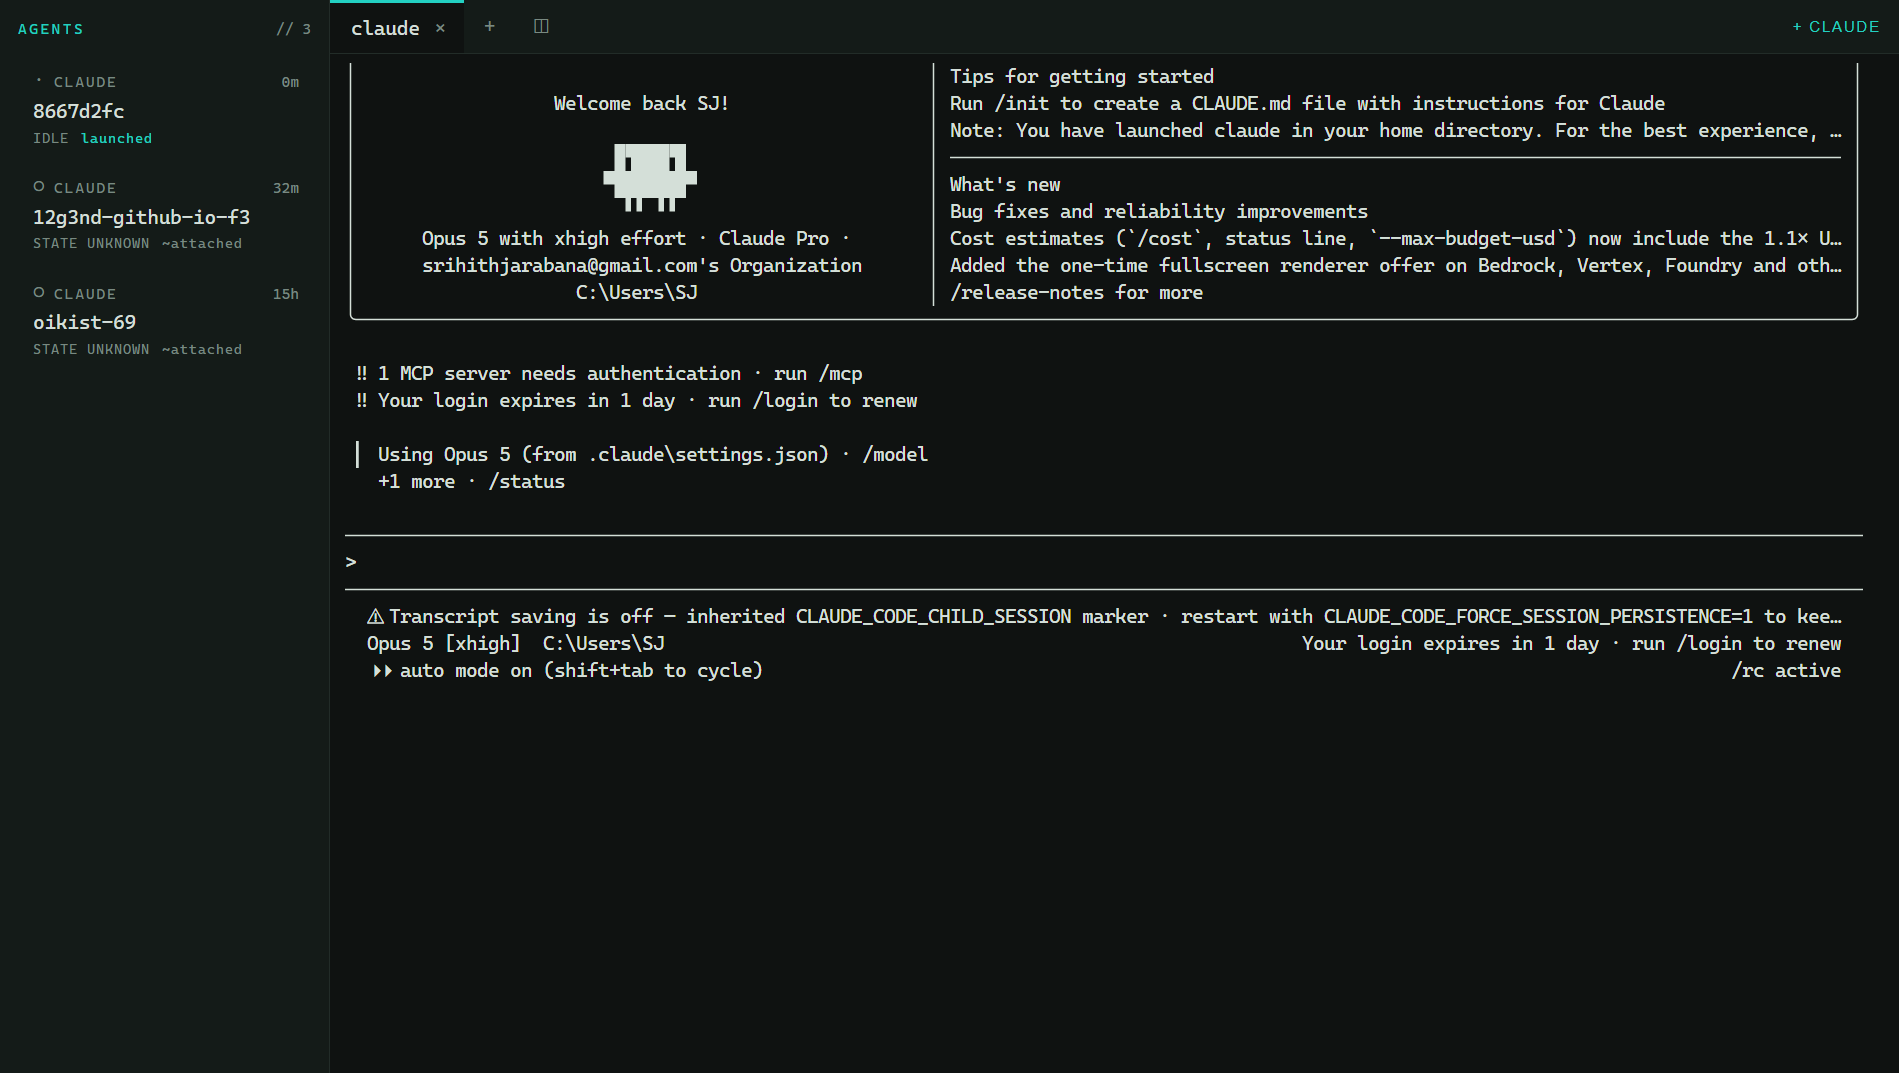
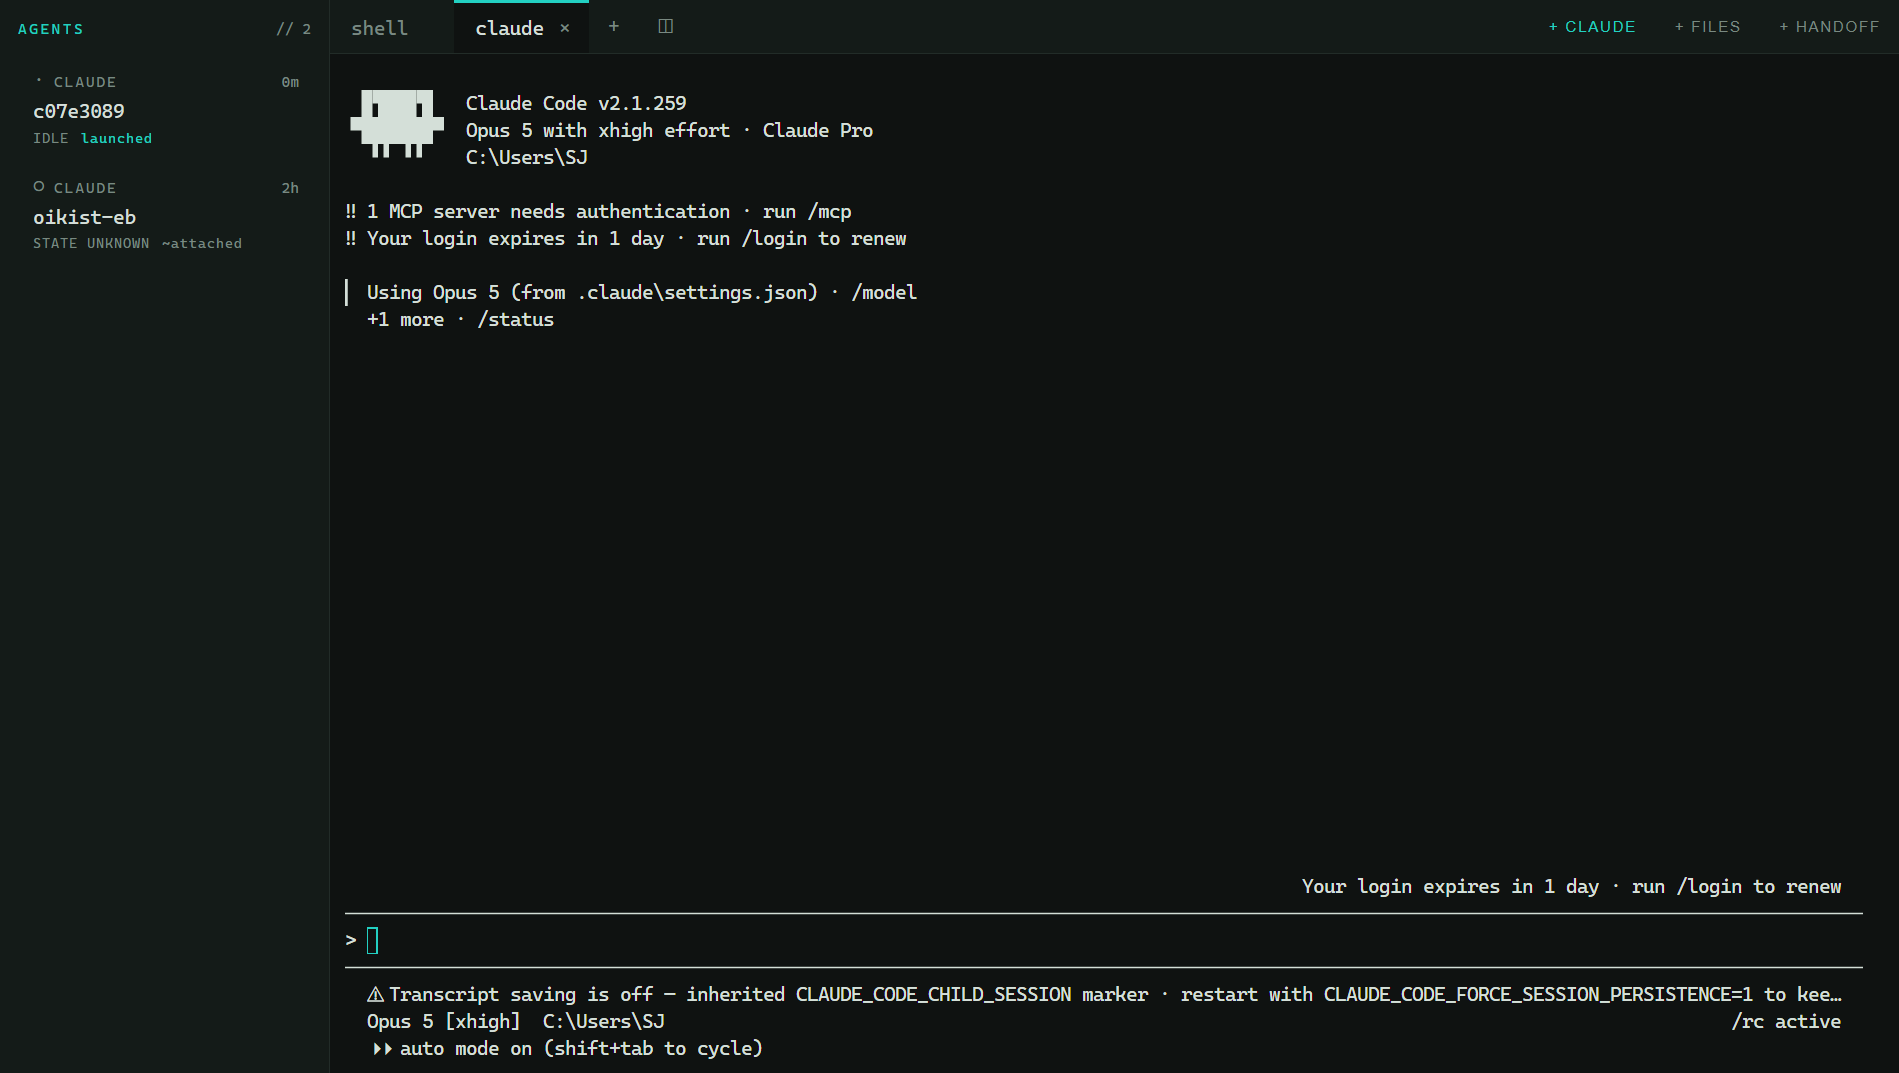
fix: an agent pane keeps itself, and stops relaunching on resume
Two defects, the first hiding the second.

TerminalPane closed its own pane on exit. Right for a shell, which exits
because you told it to; wrong for an agent, whose last output is the error
message. An agent pane now keeps its output and shows an exit notice with a
Start again action, and the rail drops the row when the process ends rather
than waiting for a session-end hook a crashed agent never sends.

With the pane no longer vanishing it showed the real fault: 'No conversation
found with session ID'. The pane reports its new session id upward, the value
returns as the resumeSessionId prop, and the prop was in the effect's
dependency array -- so the effect re-ran and relaunched with --resume for a
session created seconds earlier and never written to disk.

That is the third instance of a caller-supplied value in a dependency array,
after onExit at M3 and onPathChange at M6, so the rule in CLAUDE.md now covers
props rather than just callbacks.

An exit code that is not a number no longer renders as 'code undefined', and
the message names no cause: the first guess here was 'out of quota', which was
wrong, and the output above the notice is where the answer actually was.

diff --git a/src/renderer/src/Terminal.tsx b/src/renderer/src/Terminal.tsx
@@ -1,4 +1,6 @@
-import { useEffect, useRef } from "react";
+import { useEffect, useRef, useState } from "react";
+
+import { describeAgentExit, type AgentExit } from "../../shared/agents.js";
 
 import { FitAddon } from "@xterm/addon-fit";
 import { WebglAddon } from "@xterm/addon-webgl";
@@ -60,6 +62,21 @@ export function TerminalPane({
   // the rail. The pane must be created exactly once per pane identity.
   const onExitRef = useRef(onExit);
   onExitRef.current = onExit;
+
+  // An agent pane never removes itself. A shell that exits was told to; an agent that
+  // exits may have failed, and its last output is the error message — closing the pane
+  // throws away the only explanation the user is going to get.
+  const [exited, setExited] = useState<AgentExit | null>(null);
+  const [runKey, setRunKey] = useState(0);
+
+  // A ref, and emphatically not a dependency. The pane reports its new session id
+  // upward, which comes straight back down as this prop — so as a dependency it re-ran
+  // the effect and relaunched the agent with `--resume <id>` for a session created
+  // seconds earlier and never written to disk. Claude answered "No conversation found
+  // with session ID", exited, and the pane closed itself. Read at run time, never
+  // watched.
+  const resumeRef = useRef(resumeSessionId);
+  resumeRef.current = resumeSessionId;
   const onAgentSessionRef = useRef(onAgentSession);
   onAgentSessionRef.current = onAgentSession;
 
@@ -111,19 +128,26 @@ export function TerminalPane({
         term.write(chunk);
       }
     });
+    const startedAt = performance.now();
     const offExit = window.oikist.pty.onExit(({ id, exitCode }) => {
-      if (id === ptyId) {
-        onExitRef.current?.(exitCode);
+      if (id !== ptyId) {
+        return;
       }
+      if (agent === undefined) {
+        onExitRef.current?.(exitCode);
+        return;
+      }
+      setExited(describeAgentExit(exitCode, performance.now() - startedAt));
     });
 
+    const resume = resumeRef.current;
     const request = agent === undefined
       ? { cols: term.cols, rows: term.rows }
       : {
           cols: term.cols,
           rows: term.rows,
           agent,
-          ...(resumeSessionId === undefined ? {} : { resumeSessionId })
+          ...(resume === undefined ? {} : { resumeSessionId: resume })
         };
     void window.oikist.pty.create(request).then((created) => {
       if (disposed) {
@@ -185,7 +209,7 @@ export function TerminalPane({
       term.dispose();
       termRef.current = null;
     };
-  }, [agent, resumeSessionId]);
+  }, [agent, runKey]);
 
   useEffect(() => {
     if (focused) {
@@ -193,5 +217,26 @@ export function TerminalPane({
     }
   }, [focused]);
 
-  return <div className="term-host" ref={hostRef} />;
+  return (
+    <div className="term-wrap">
+      {exited !== null && (
+        <div className={`term-exit${exited.failed ? " term-exit--failed" : ""}`} role="status">
+          <span className="term-exit-message">{exited.message}</span>
+          <button
+            type="button"
+            className="term-exit-action"
+            onClick={() => {
+              setExited(null);
+              // Bumping the key re-runs the effect, which builds a fresh terminal and a
+              // fresh pty. The previous output stays on screen until it does.
+              setRunKey((key) => key + 1);
+            }}
+          >
+            START AGAIN
+          </button>
+        </div>
+      )}
+      <div className="term-host" ref={hostRef} />
+    </div>
+  );
 }

diff --git a/tests/agents.test.ts b/tests/agents.test.ts
@@ -5,6 +5,8 @@ import {
   ATTENTION_ORDER,
   compareAgents,
   parseClaudeAgents,
+  AGENT_FAILED_BEFORE_MS,
+  describeAgentExit,
   mergeAgents,
   projectFromCwd,
   type AgentSummary
@@ -152,4 +154,43 @@ test("a launched agent the poller has not seen yet still appears", () => {
 
 test("attached agents with no launch record are untouched", () => {
   assert.deepEqual(mergeAgents([], [ATTACHED]), [ATTACHED]);
+});
+
+// --- an agent pane must never hide why it stopped ---
+
+test("a clean exit after real work counts as finishing", () => {
+  const exit = describeAgentExit(0, 45_000);
+  assert.equal(exit.failed, false);
+  assert.match(exit.message, /ended after 45s/);
+});
+
+test("a non-zero code is a failure however long it ran", () => {
+  const exit = describeAgentExit(1, 60_000);
+  assert.equal(exit.failed, true);
+  assert.match(exit.message, /code 1/);
+});
+
+test("exiting immediately is a failure even with code 0", () => {
+  // A provider that cannot start exits cleanly and at once. Reporting that as a normal
+  // finish would hide the only thing worth knowing. The message points at the pane's own
+  // output rather than naming a cause: the first guess at that cause was "out of quota",
+  // and the real one turned out to be a bad --resume argument.
+  const exit = describeAgentExit(0, 300);
+  assert.equal(exit.failed, true);
+  assert.match(exit.message, /Exited immediately/);
+  assert.match(exit.message, /output above/);
+});
+
+test("the immediate-failure boundary is the documented one", () => {
+  assert.equal(describeAgentExit(0, AGENT_FAILED_BEFORE_MS - 1).failed, true);
+  assert.equal(describeAgentExit(0, AGENT_FAILED_BEFORE_MS).failed, false);
+});
+
+test("a missing exit code never renders as the word undefined", () => {
+  for (const code of [undefined, null, Number.NaN, "1"]) {
+    const exit = describeAgentExit(code, 30_000);
+    assert.equal(exit.message.includes("undefined"), false, JSON.stringify(code));
+    assert.equal(exit.message.includes("NaN"), false, JSON.stringify(code));
+  }
+  assert.equal(describeAgentExit(undefined, 300).failed, true, "an immediate exit is still a failure");
 });

diff --git a/src/shared/agents.ts b/src/shared/agents.ts
@@ -173,3 +173,38 @@ export function mergeAgents(
   }
   return [...byId.values()].sort(compareAgents);
 }
+
+/** How long a session must last before ending counts as finishing rather than failing. */
+export const AGENT_FAILED_BEFORE_MS = 2000;
+
+export interface AgentExit {
+  readonly failed: boolean;
+  readonly message: string;
+}
+
+/**
+ * Describes why an agent session ended.
+ *
+ * Two things mean failure rather than completion: a non-zero exit code, and ending
+ * almost immediately. The second matters because a provider that is out of quota exits
+ * cleanly and at once — code 0, under a second — and calling that "finished" would hide
+ * the only thing the user needs to know.
+ */
+export function describeAgentExit(exitCode: unknown, ranForMs: number): AgentExit {
+  const seconds = Math.max(0, Math.round(ranForMs / 1000));
+  // node-pty does not always supply one; "code undefined" tells the reader nothing.
+  const code = typeof exitCode === "number" && Number.isFinite(exitCode) ? exitCode : null;
+  if (ranForMs < AGENT_FAILED_BEFORE_MS) {
+    return {
+      failed: true,
+      message:
+        code === 0 || code === null
+          ? "Exited immediately. The output above is usually the reason."
+          : `Exited immediately with code ${code}.`
+    };
+  }
+  if (code !== 0 && code !== null) {
+    return { failed: true, message: `Exited with code ${code} after ${seconds}s.` };
+  }
+  return { failed: false, message: `Session ended after ${seconds}s.` };
+}

diff --git a/src/renderer/src/app.css b/src/renderer/src/app.css
@@ -316,6 +316,51 @@ body {
 
 .pane--focused { border-left-color: var(--accent); }
 
+.term-wrap {
+  display: flex;
+  flex-direction: column;
+  height: 100%;
+  min-height: 0;
+}
+
+/* Sits above the terminal rather than replacing it: the output underneath is usually
+   the actual explanation. */
+.term-exit {
+  display: flex;
+  align-items: baseline;
+  gap: 12px;
+  flex: none;
+  padding: 6px 10px;
+  margin-bottom: 6px;
+  border-left: 2px solid var(--fg-dim);
+  background: var(--surface);
+  font-size: 11px;
+  color: var(--fg-dim);
+}
+
+.term-exit--failed {
+  border-left-color: var(--danger);
+  color: var(--danger);
+}
+
+.term-exit-message { min-width: 0; }
+
+.term-exit-action {
+  margin-left: auto;
+  flex: none;
+  border: 1px solid currentColor;
+  background: none;
+  color: inherit;
+  font: inherit;
+  font-size: 10px;
+  letter-spacing: 0.12em;
+  padding: 2px 8px;
+  cursor: pointer;
+}
+
+.term-exit-action:hover { background: #1a201e; }
+.term-exit-action:focus-visible { outline: 1px solid var(--accent); outline-offset: 1px; }
+
 /* xterm measures itself against this box, so it must have real height before fit(). */
 .term-host {
   flex: 1;

diff --git a/src/main/index.ts b/src/main/index.ts
@@ -181,7 +181,26 @@ function createWindow(stored?: WindowBounds): BrowserWindow {
     console.error(`[preload-error] ${preloadPath}: ${error.message}`);
   });
 
-  const manager = PtyManager.forWebContents(window.webContents);
+  // Wrapped rather than using forWebContents directly: an agent whose process ends is
+  // no longer running, and the rail must stop saying it is. A crashed agent never sends
+  // session-end, so the pty's own exit is the only reliable signal.
+  const manager = new PtyManager((channel, payload) => {
+    if (window.isDestroyed()) {
+      return;
+    }
+    window.webContents.send(channel, payload);
+    if (channel !== IPC.ptyExit) {
+      return;
+    }
+    const ptyId = (payload as { id: string }).id;
+    const sessionId = agentSessionForPty.get(ptyId);
+    if (sessionId !== undefined) {
+      agentSessionForPty.delete(ptyId);
+      if (launcher?.forget(sessionId) === true) {
+        publishAgents();
+      }
+    }
+  });
 
   // Read once, here, and never inside `closed`.
   //

diff --git a/docs/KNOWN-ISSUES.md b/docs/KNOWN-ISSUES.md
@@ -137,21 +137,31 @@ forwards, because everything else there is prompt or tool text.
 
 ---
 
-## Open
+### An agent pane closed itself, hiding why it stopped
 
-### A failed agent launch closes its own pane silently
+**Found and fixed 2026-09-04.**
 
-**Found at the README screenshots, 2026-09-04.**
+Clicking **+ CLAUDE** created a tab that vanished within seconds, leaving no trace. Two
+defects, one hiding the other.
 
-`TerminalPane`'s `onExit` calls `unsplitPane` unconditionally, which closes the tab when
-it was the only pane. For a shell that is right — you typed `exit`, the pane should go.
-For an agent that fails to start it is wrong: Claude exits immediately when its session
-limit is exhausted, the pane closes within a second, and the tab disappears with it.
-Clicking **+ CLAUDE** then looks like nothing happened at all.
+**The visible one:** `TerminalPane`'s `onExit` called `unsplitPane` unconditionally. For
+a shell that is right — you typed `exit`. For an agent it threw away the pane whose
+output *was* the error message. An agent pane now never removes itself; it keeps its
+output and shows an exit notice with a **Start again** action.
 
-Observed twice while capturing screenshots: the click registered, the tab appeared, and
-by capture time both the tab and the rail row were gone.
+**The one that fix revealed:** with the pane no longer disappearing, it showed
+`No conversation found with session ID: 94451447-...`. The pane reports its new session
+id upward, that comes straight back down as the `resumeSessionId` prop, and the prop was
+in the effect's dependency array — so the effect re-ran and relaunched the agent with
+`--resume` for a session created seconds earlier and never written to disk. Claude
+exited, and the pane closed itself before anyone could read why.
 
-**Fix:** an agent pane that exits should stay and say why — exit code, and the last of
-its output — rather than removing itself. A pane that exits in under a second or with a
-non-zero code has failed, not finished, and the two deserve different treatment.
+**This is the third instance of the same defect** — a caller-supplied value in an
+effect's dependency array. `onExit` recreated ptys at M3, `onPathChange` cleared the file
+being read at M6, and `resumeSessionId` relaunched agents here. The rule in `CLAUDE.md`
+now covers props as well as callbacks: if the value round-trips through the parent, hold
+it in a ref and keep it out of the deps.
+
+**Also corrected:** the first diagnosis of the vanishing tab was "Claude is out of
+quota". It was not. The exit message deliberately no longer names a cause — it points at
+the pane's own output, which is where the real one was all along.

diff --git a/CLAUDE.md b/CLAUDE.md
@@ -142,11 +142,13 @@ stops being believed the first time it is wrong.
 - **The hook relay must run under real Node, not Electron.** `process.execPath` is
   `electron.exe`, which behaves as Node only with an env var a hook definition cannot
   set, so the launcher resolves `node` from PATH.
-- **Never put a caller's inline callback in an effect's dependency array.** This has
-  bitten twice. `onExit` on the terminal recreated the pty on every parent render,
+- **Never put a caller-supplied value in an effect's dependency array** if it can round
+  trip through the parent. This has now bitten three times. `onExit` on the terminal recreated the pty on every parent render,
   spawning duplicate shells and duplicate rail rows; `onPathChange` on the file viewer
   re-ran its effect and cleared the file being read, so opening a file looked like
-  nothing happening. Hold the callback in a ref and keep it out of the deps.
+  nothing happening; and `resumeSessionId` — which the pane itself reports upward — came
+  back down and relaunched the agent with `--resume` for a session that did not exist
+  yet. Hold it in a ref and keep it out of the deps.
 - **A no-op state change must return the identical object.** A reducer that rebuilds
   the layout for an unchanged value makes a component that reports state upward loop
   forever: report, re-render, report again.
